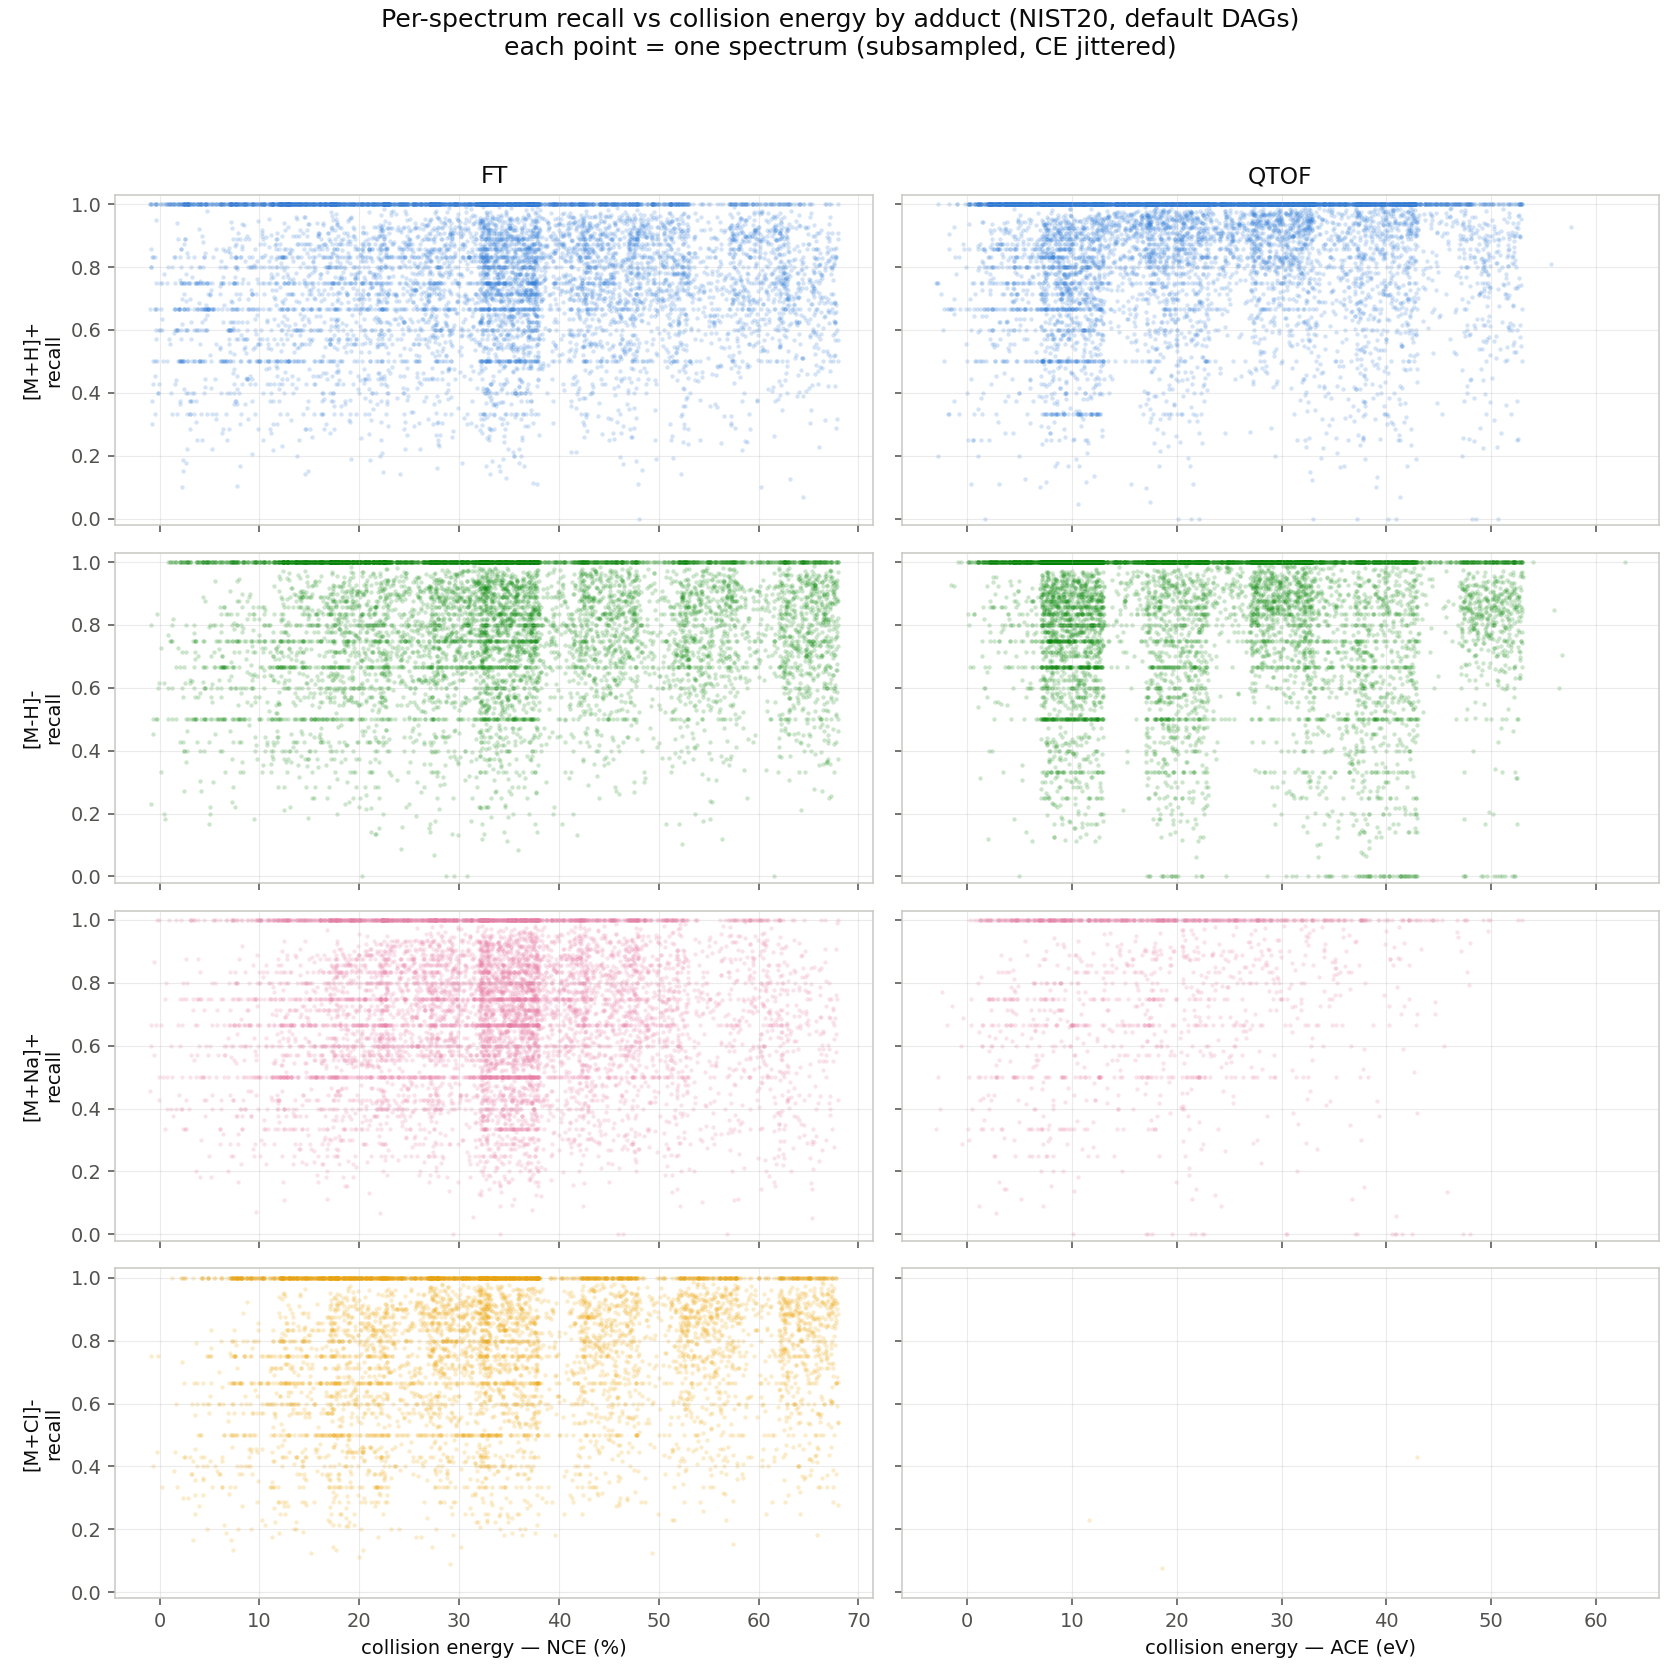
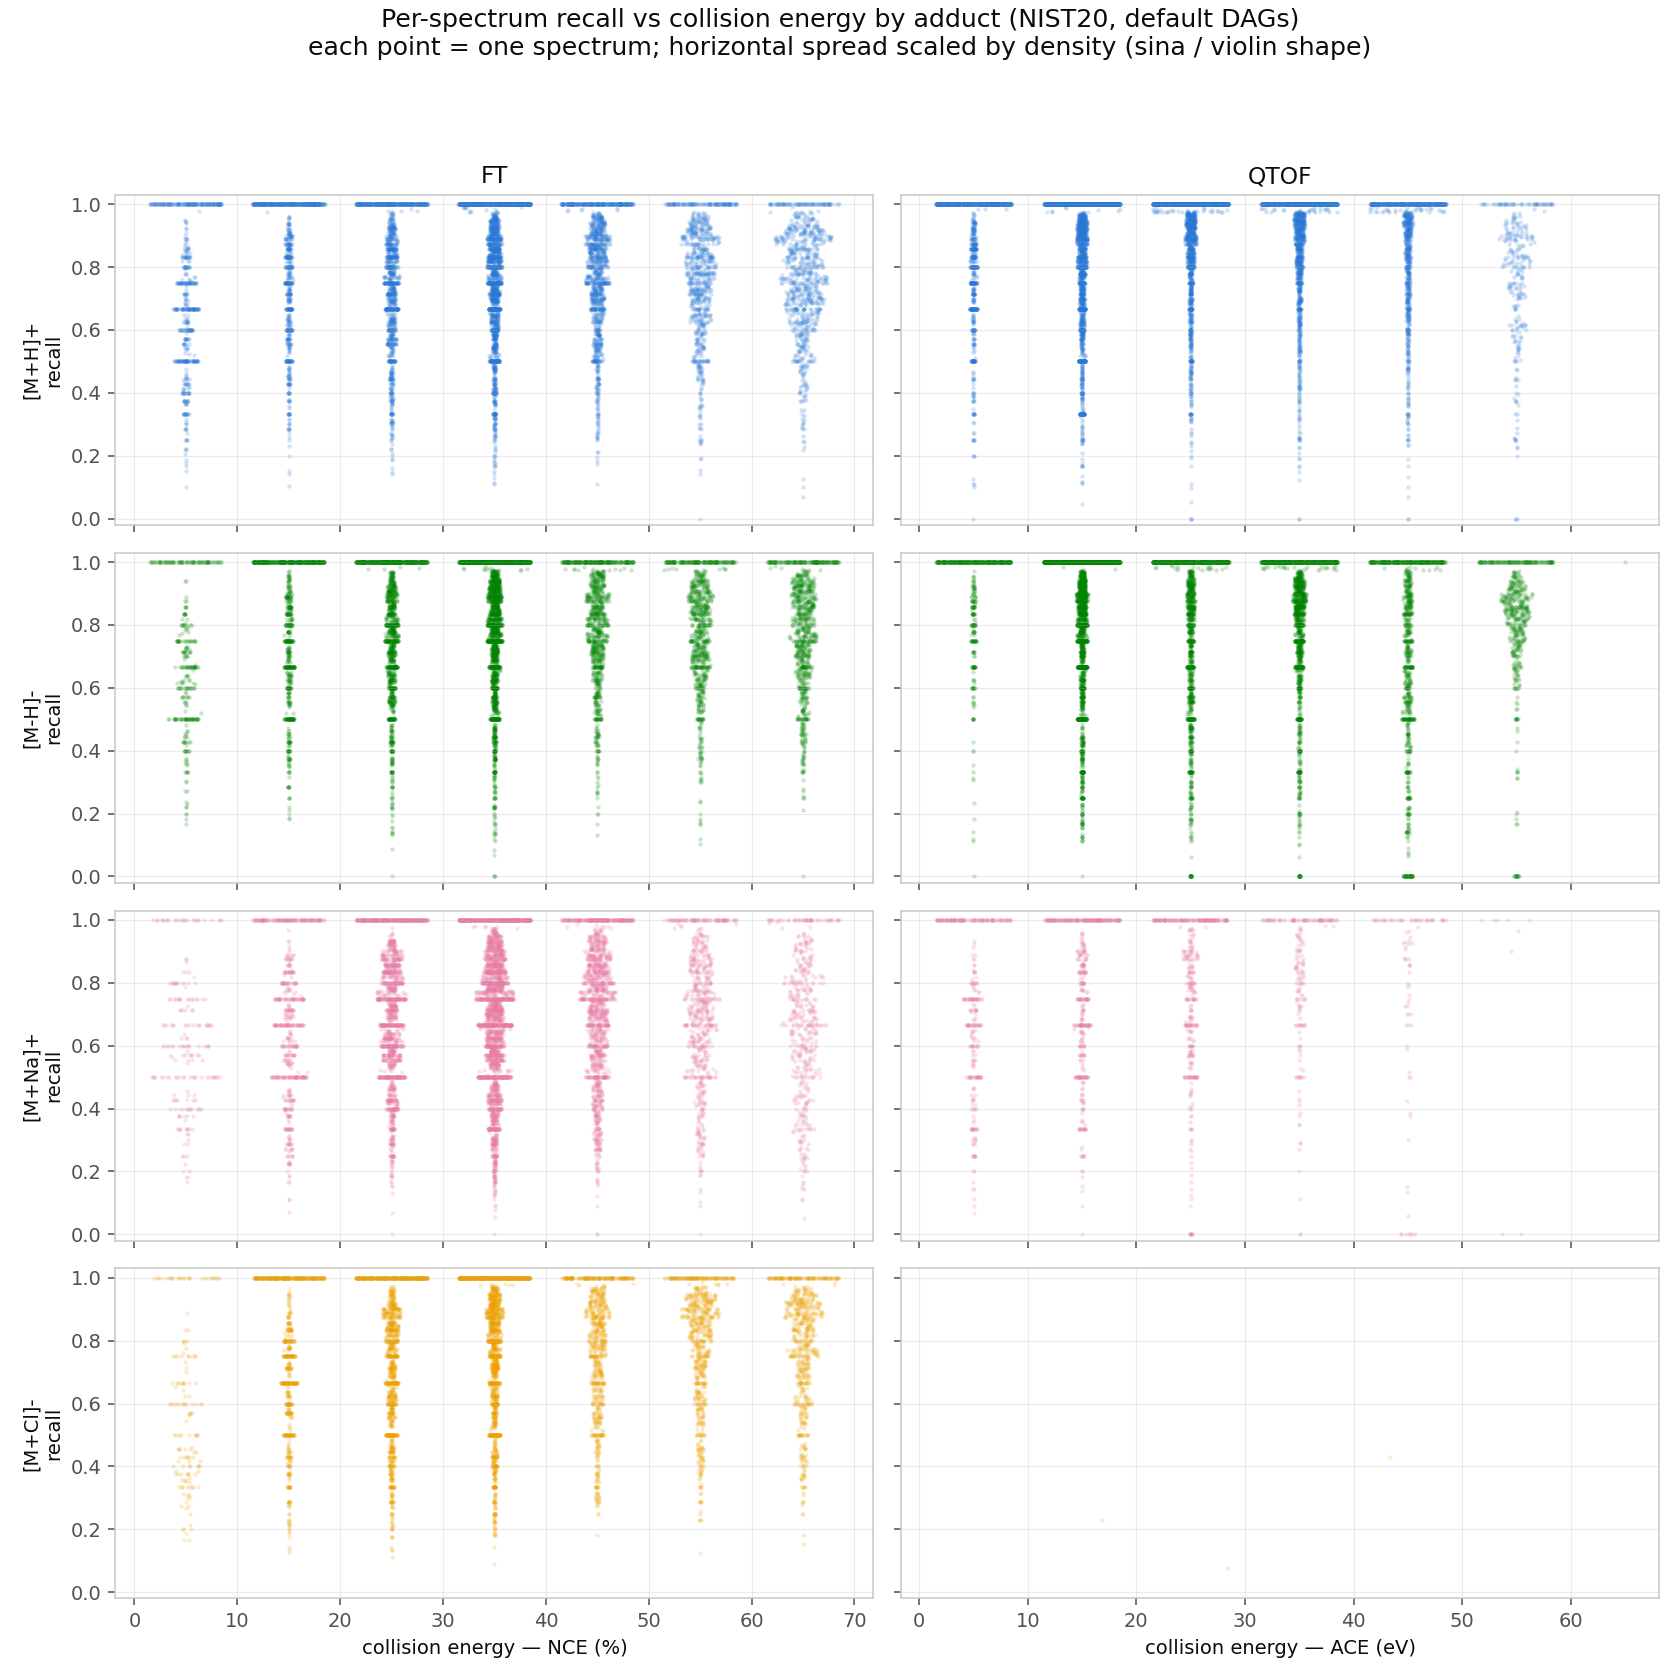
update

diff --git a/scripts/plotting/plot_oracle_ce_coverage.py b/scripts/plotting/plot_oracle_ce_coverage.py
@@ -185,11 +185,24 @@ def plot_violin_by_adduct(df: pd.DataFrame, metric: str, out_fp: Path) -> None:
     log.info("saved %s", out_fp)
 
 
-def plot_scatter_by_adduct(df: pd.DataFrame, metric: str, out_fp: Path) -> None:
-    """Per-spectrum scatter of one metric vs CE, faceted adduct (rows) x instrument (cols).
+def _sina_x(vals: np.ndarray, center: float, rng: np.random.Generator) -> np.ndarray:
+    """CE positions for a sina/violin-shaped strip: horizontal jitter scaled by local density.
 
-    Same facet layout as plot_violin_by_adduct, but showing the raw per-spectrum points
-    (subsampled, with small CE jitter) instead of binned violins.
+    Each point in a CE bin is offset from ``center`` by a random amount whose maximum scales
+    with the density of points at that metric value, so the cloud takes the violin's outline.
+    """
+    counts, edges = np.histogram(vals, bins=40, range=(0.0, 1.0))
+    peak = counts.max() or 1
+    idx = np.clip(np.digitize(vals, edges) - 1, 0, len(counts) - 1)
+    width = counts[idx] / peak * SINA_HALFWIDTH
+    return center + rng.uniform(-1.0, 1.0, len(vals)) * width
+
+
+def plot_scatter_by_adduct(df: pd.DataFrame, metric: str, out_fp: Path) -> None:
+    """Per-spectrum sina (violin-shaped) strip of one metric vs CE, faceted adduct x instrument.
+
+    Same facet layout as plot_violin_by_adduct, but showing the raw per-spectrum points; within
+    each CE bin the horizontal jitter is scaled by local density so the cloud mirrors the violin.
     """
     rng = np.random.default_rng(0)
     fig, axes = plt.subplots(len(ADDUCTS), 2, figsize=(12, 12), sharex="col", sharey=True)
@@ -203,8 +216,10 @@ def plot_scatter_by_adduct(df: pd.DataFrame, metric: str, out_fp: Path) -> None:
             else:
                 if len(sub) > SCATTER_MAX_POINTS:
                     sub = sub.sample(SCATTER_MAX_POINTS, random_state=0)
-                x = sub["ce"].to_numpy() + rng.uniform(-SCATTER_JITTER, SCATTER_JITTER, len(sub))
-                ax.scatter(x, sub[metric], s=5, alpha=0.2, color=ADDUCT_COLORS[pt], linewidths=0)
+                for b in sorted(sub["ce_bin"].unique()):
+                    v = sub.loc[sub["ce_bin"] == b, metric].to_numpy()
+                    ax.scatter(_sina_x(v, b + 5, rng), v, s=5, alpha=0.2,
+                               color=ADDUCT_COLORS[pt], linewidths=0)
             ax.grid(True, alpha=0.25, lw=0.6)
             ax.set_ylim(-0.02, 1.03)
             if col == 0:
@@ -215,7 +230,7 @@ def plot_scatter_by_adduct(df: pd.DataFrame, metric: str, out_fp: Path) -> None:
                 ax.set_xlabel(f"collision energy — {unit}")
     fig.suptitle(
         f"Per-spectrum {metric} vs collision energy by adduct (NIST20, default DAGs)\n"
-        "each point = one spectrum (subsampled, CE jittered)",
+        "each point = one spectrum; horizontal spread scaled by density (sina / violin shape)",
         fontsize=13, y=0.995,
     )
     fig.tight_layout(rect=[0, 0, 1, 0.96])

diff --git a/docs/oracle_recall_wrecall_by_ce.md b/docs/oracle_recall_wrecall_by_ce.md
@@ -59,10 +59,12 @@ recall:
 
 ## Per-spectrum scatter vs CE, by adduct
 
-Raw per-spectrum points (same adduct × instrument facets as the violins), subsampled with small
-CE jitter. The dense band pinned at ~1.0 is the well-covered majority; the downward scatter is
-the low-coverage tail, which visibly thickens toward higher CE. `[M+Na]+` shows the widest
-downward spread; `[M-H]-` the tightest. QTOF `[M+Cl]-` has no data.
+Raw per-spectrum points (same adduct × instrument facets as the violins). Within each CE bin the
+horizontal spread is scaled by local density (a **sina plot**), so the point cloud traces the
+violin outline while still showing every spectrum. The dense band pinned at ~1.0 is the
+well-covered majority; the downward taper is the low-coverage tail, which visibly thickens toward
+higher CE. `[M+Na]+` shows the widest downward spread; `[M-H]-` the tightest. QTOF `[M+Cl]-` has
+no data.
 
 wrecall:
 
